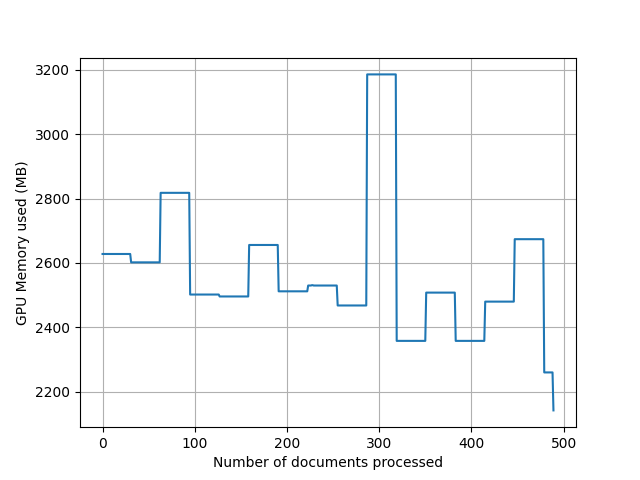
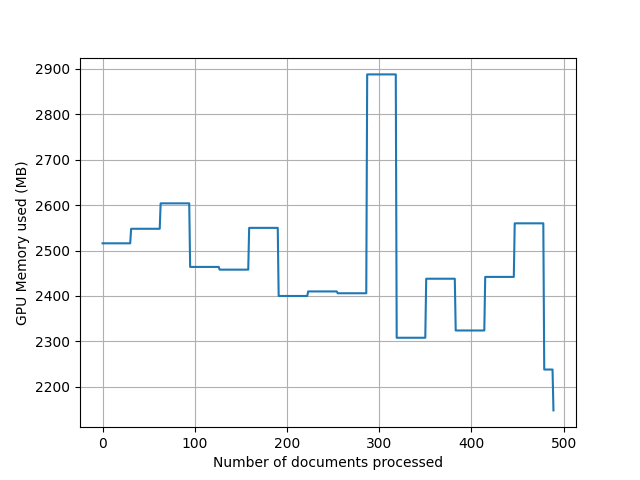
torch.no_grad option default True

diff --git a/tests/test_stanza_batch.py b/tests/test_stanza_batch.py
@@ -232,8 +232,9 @@ def test_sentiment_in_sentence() -> None:
             assert isinstance(sentence.sentiment, int)
 
 
-@pytest.mark.parametrize("clear_cache", [(True,), (False,)])
-def test_batch(clear_cache: bool) -> None:
+@pytest.mark.parametrize("torch_no_grad", [True, False])
+@pytest.mark.parametrize("clear_cache", [True, False])
+def test_batch(clear_cache: bool, torch_no_grad: bool) -> None:
     stanza.download("en", processors="tokenize")
     nlp = stanza.Pipeline(
         lang="en", processors="tokenize, sentiment", use_gpu=False
@@ -241,7 +242,7 @@ def test_batch(clear_cache: bool) -> None:
     # One sample
     count = 0
     for document in stanza_batch.batch(
-        [EXAMPLE_ONE], nlp, clear_cache=clear_cache
+        [EXAMPLE_ONE], nlp, clear_cache=clear_cache, torch_no_grad=torch_no_grad
     ):
         count += 1
         # This process removes the \n either side of the string
@@ -261,7 +262,10 @@ def test_batch(clear_cache: bool) -> None:
     # middle of the string.
     count = 0
     for document in stanza_batch.batch(
-        [EXAMPLE_FOUR], nlp, clear_cache=clear_cache
+        [EXAMPLE_FOUR],
+        nlp,
+        clear_cache=clear_cache,
+        torch_no_grad=torch_no_grad,
     ):
         count += 1
         # This process removes the `\n \n\n` and adds `\n\n` in its place.
@@ -291,7 +295,11 @@ def test_batch(clear_cache: bool) -> None:
     count = 0
     for index, document in enumerate(
         stanza_batch.batch(
-            documents, nlp, batch_size=2, clear_cache=clear_cache
+            documents,
+            nlp,
+            batch_size=2,
+            clear_cache=clear_cache,
+            torch_no_grad=torch_no_grad,
         )
     ):
         count += 1
@@ -310,7 +318,11 @@ def test_batch(clear_cache: bool) -> None:
     count = 0
     for index, document in enumerate(
         stanza_batch.batch(
-            [long_text], nlp, batch_size=2, clear_cache=clear_cache
+            [long_text],
+            nlp,
+            batch_size=2,
+            clear_cache=clear_cache,
+            torch_no_grad=torch_no_grad,
         )
     ):
         count += 1
@@ -342,7 +354,7 @@ def test_batch(clear_cache: bool) -> None:
     processed_book_data = [
         document
         for document in stanza_batch.batch(
-            book_data, nlp, clear_cache=clear_cache
+            book_data, nlp, clear_cache=clear_cache, torch_no_grad=torch_no_grad
         )
     ]
     assert len(book_data) == len(processed_book_data)

diff --git a/stanza_batch/__init__.py b/stanza_batch/__init__.py
@@ -282,6 +282,7 @@ def batch(
     stanza_pipeline: stanza.Pipeline,
     batch_size: int = 32,
     clear_cache: bool = True,
+    torch_no_grad: bool = True,
 ) -> Iterable[Document]:
     """
     Batch processes the given texts using the given Stanza pipeline.
@@ -306,6 +307,11 @@ def batch(
                         batch has been processed. This is to stop the memory
                         from being consumed for both the main memory and GPU
                         memory over the whole python process.
+    :param torch_no_grad: This wraps the stanza nlp pipeline in a `torch.no_grad`
+                          context manager, this reduces the memory used by torch
+                          and can speed up the pipeline. This turns off the
+                          autograd engine that is used by PyTorch for the
+                          stanza nlp pipeline when True.
     :returns: An Iterable of processed texts represented as Stanza Documents.
               This will be of the same length as the data iterable given.
     :raises ValueError: If a sample in the data contains no text after being
@@ -318,7 +324,11 @@ def batch(
     for batch_str, _offsets, _doc_indexes in _stanza_batch(
         data, batch_size=batch_size
     ):
-        stanza_document = stanza_pipeline(batch_str)
+        if torch_no_grad:
+            with torch.no_grad():
+                stanza_document = stanza_pipeline(batch_str)
+        else:
+            stanza_document = stanza_pipeline(batch_str)
         (
             processed_stanza_documents,
             processed_document_indexes,
